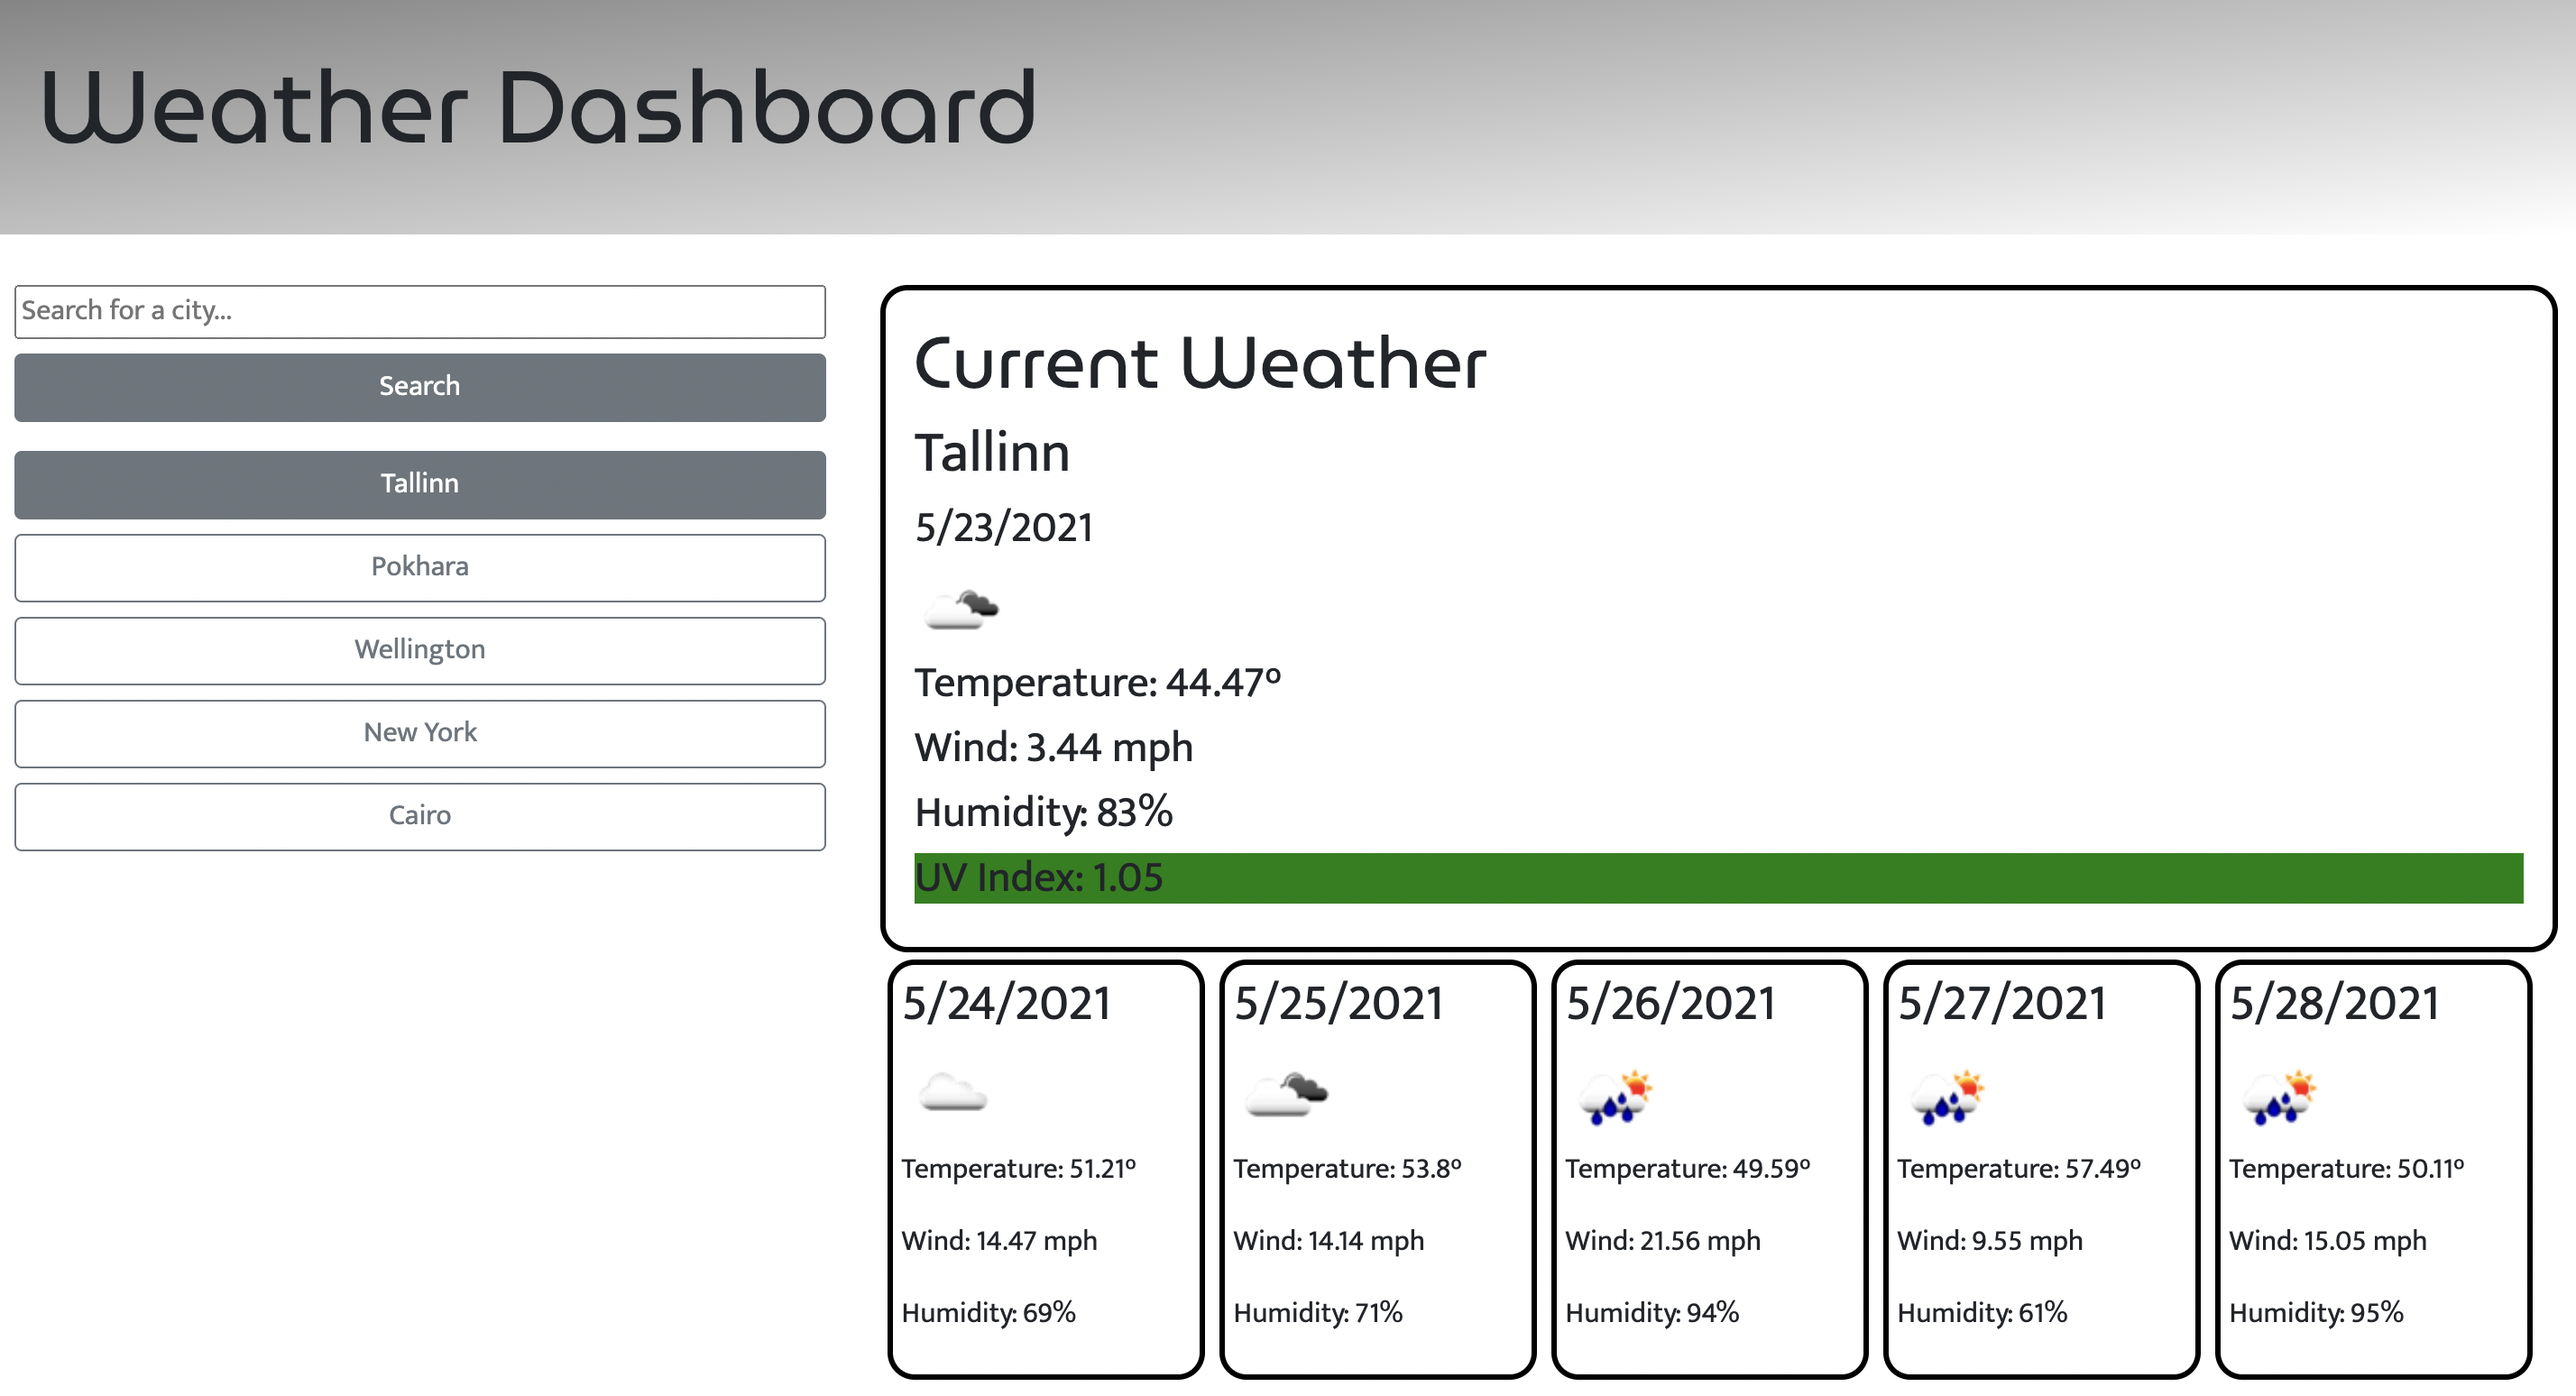
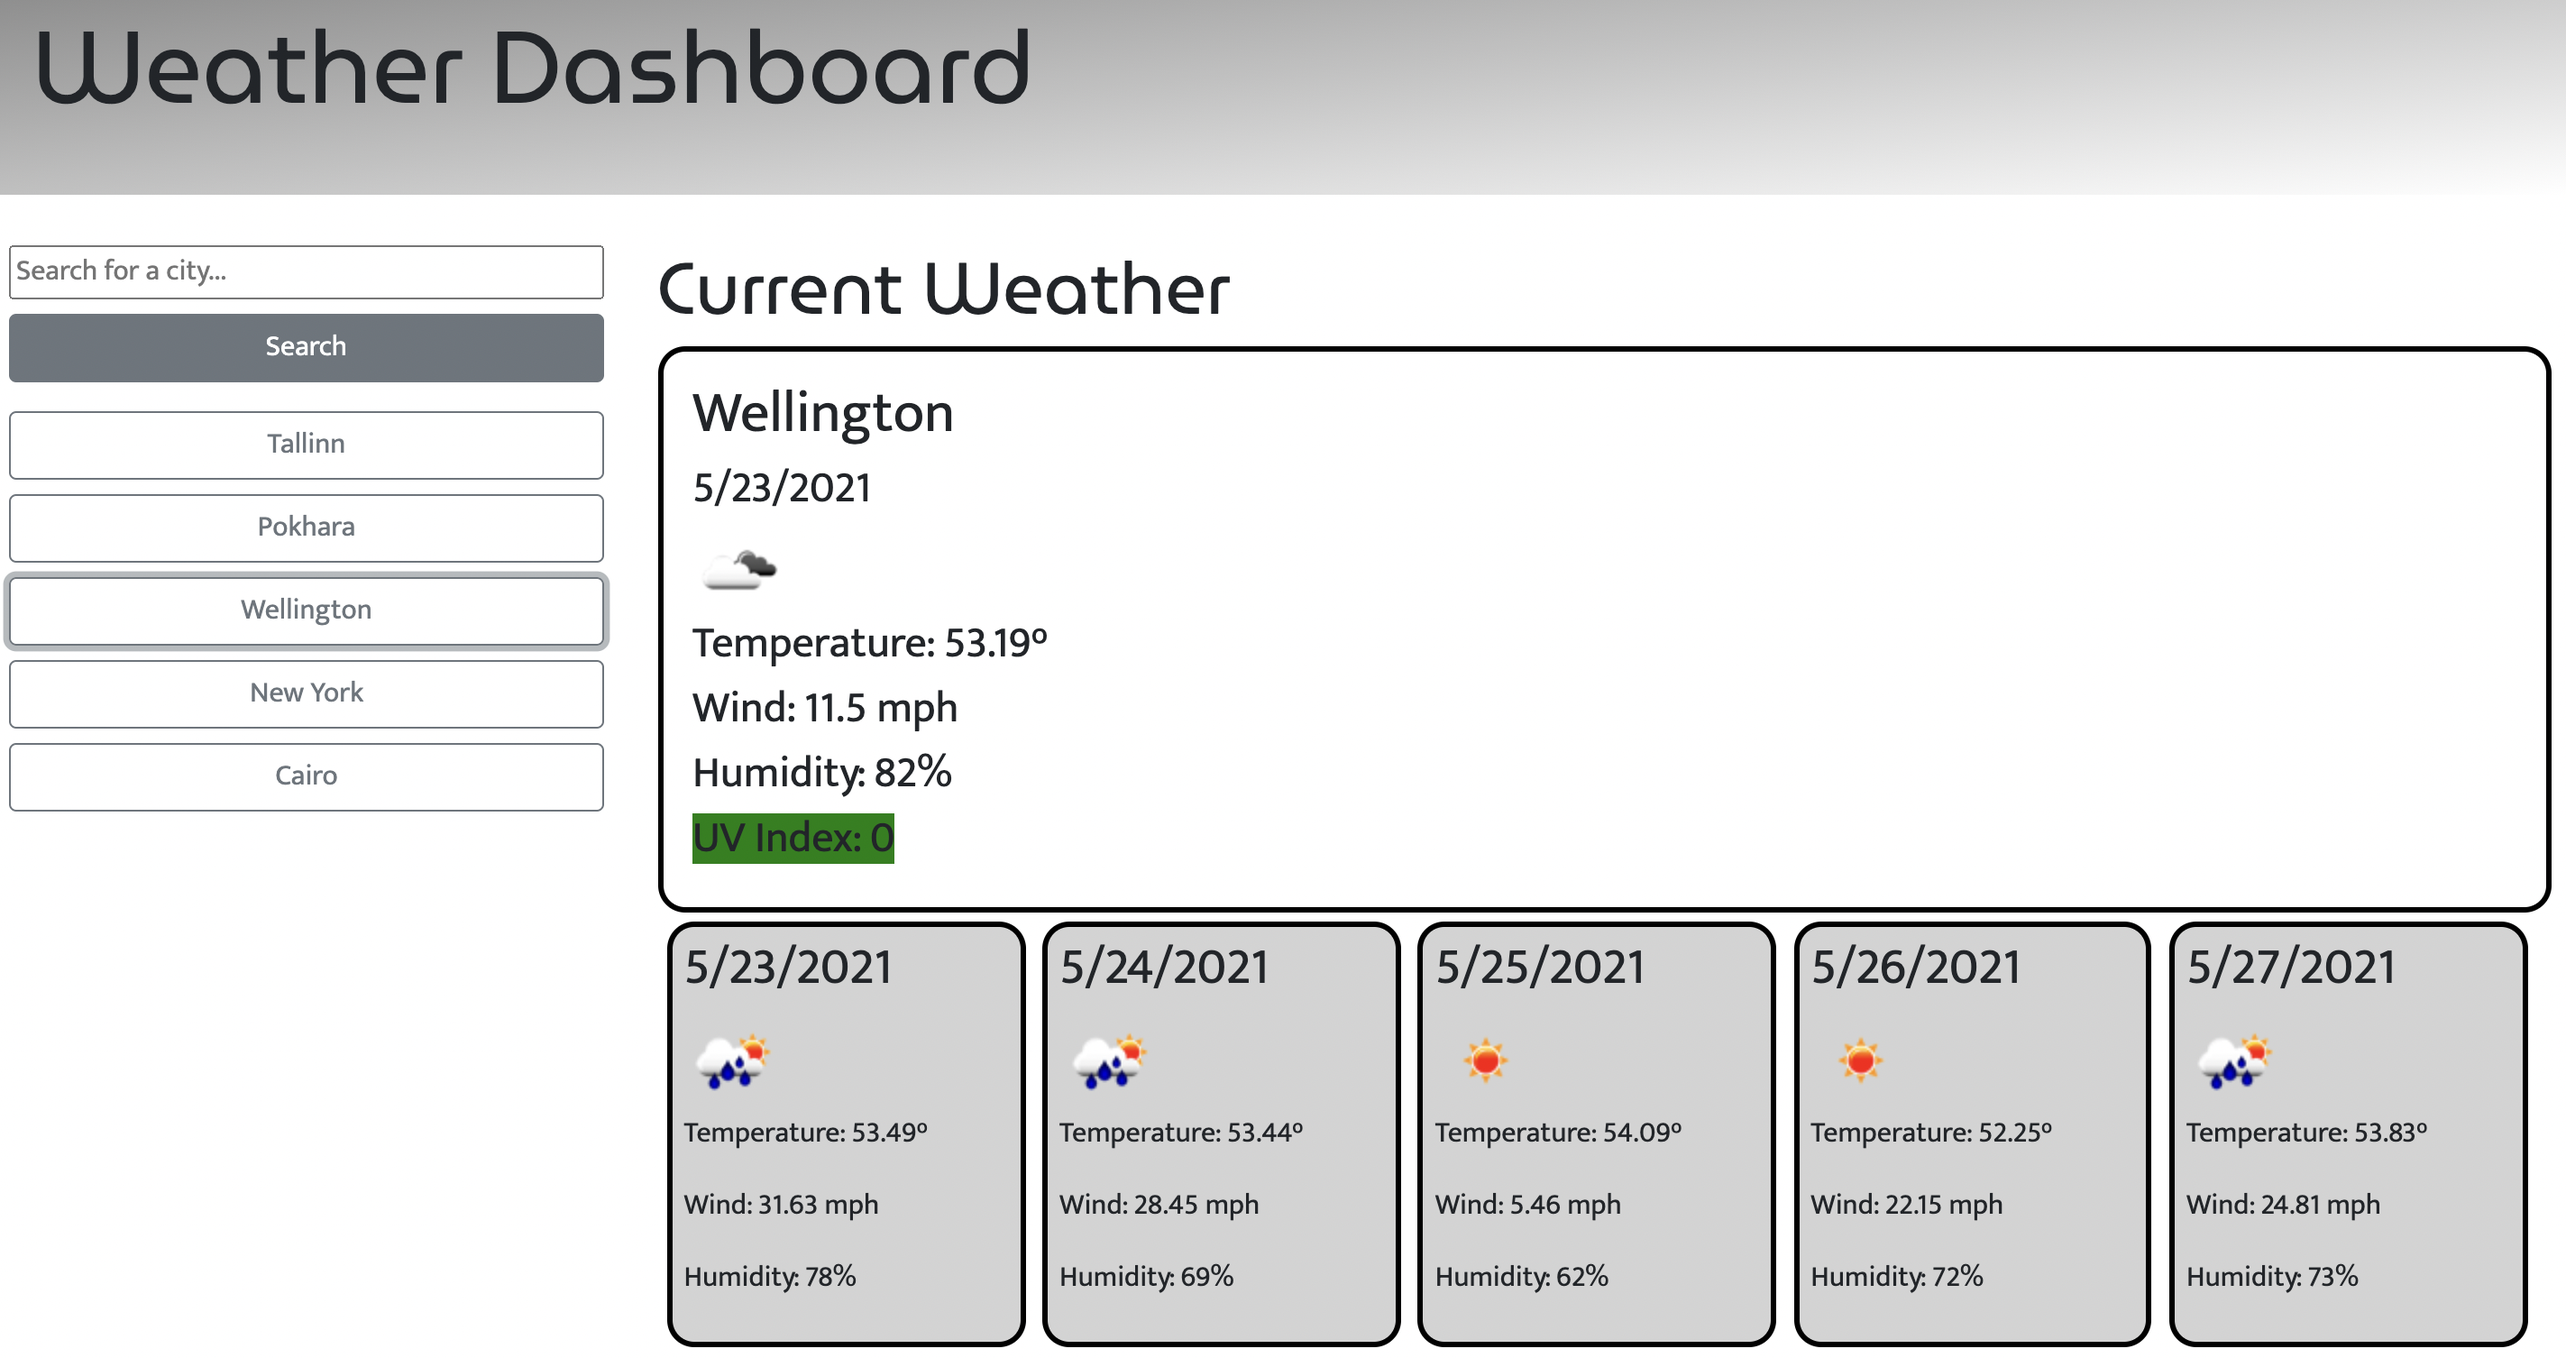
cleaned up code

diff --git a/index.html b/index.html
@@ -15,12 +15,10 @@
 </head>
 
 <body>
-    <!-- header: (weather dashboard) -->
     <header>Weather Dashboard</header>
     <div class="container-fluid">
         <div class="row">
-            <!-- first column on the left -->
-            <container class="col-sm-4">
+            <container class="col-sm-3">
                 <form>
                     <input type="text" id="citySearch" class="city-search" placeholder="Search for a city...">
                     <button type="submit" id="searchBtn" class="search-btn btn btn-secondary btn-block">Search</button>
@@ -28,11 +26,10 @@
                 <div id="cityBtns" class="city-btns"></div>
             </container>
 
-            <!-- second column on the right -->
-            <container class="col-sm-8">
-                <!-- this contains city, icon, date, temp, wind, humidity, and UV index -->
+            <container class="col-sm-9">
+                <h1>Current Weather</h1>
                 <div id="currentWeatherContainer" class="current-weather-container">
-                    <h1>Current Weather</h1>
+
                     <h2 id="cityName" class="city-name"></h2>
 
                     <h4 id="date" class="date"></h4>
@@ -41,7 +38,9 @@
                     <h4 id="temp" class="temp"></h4>
                     <h4 id="wind" class="wind"></h4>
                     <h4 id="humidity" class="humidity"></h4>
-                    <h4 id="uvIndex" class="uv-index "></h4>
+                    <div class="index-bar">
+                        <h4 id="uvIndex" class="uv-index"></h4>
+                    </div>
                 </div>
 
                 <div id="forecastContainer" class="forecast-container card-group"></div>

diff --git a/assets/js/script.js b/assets/js/script.js
@@ -13,10 +13,8 @@ let cities = JSON.parse(localStorage.getItem('cities')) || [];
 let cityBtns = document.querySelector('.city-btns');
 
 function init() {
-    // check local storage for the key (cities) if present
     let citiesStorage = localStorage.getItem('cities');
     if (citiesStorage) {
-        // loop through local storage and create buttons with the button label as the city
         cities = JSON.parse(citiesStorage);
         console.log(cities);
         renderCities();
@@ -133,10 +131,7 @@ function getFiveDay(lat, lon) {
         })
 };
 
-
-
 function saveCitySearch(citySearch) {
-    // let citiesStorage = localStorage.getItem('cities');
     if (!cities.includes(citySearch)) {
         cities.push(citySearch);
     }
@@ -161,8 +156,3 @@ function renderCities() {
 searchBtn.addEventListener('click', getCityName);
 cityBtns.addEventListener('click', () => getWeather(event));
 init();
-
-// click event for local storage btns
-// events
-// init (check local storage)
-// click on past city button to regenerate the forecast again (call the getWeather function with the label of button)

diff --git a/assets/css/style.css b/assets/css/style.css
@@ -47,10 +47,11 @@ header, h1 {
 
 .my-card {
     border: solid 3px black;
-    width: 11em;
+    width: 12.42em;
     border-radius: 15px;
-    margin: .25em;
-    padding: .3em;
+    margin: .3em;
+    padding: .4em;
+    background-color: lightgray;
 }
 
 form {
@@ -61,4 +62,8 @@ form {
 .city-search {
     width: 100%;
     margin-bottom: .5em;
+}
+
+.index-bar {
+    width: max-content;
 }
